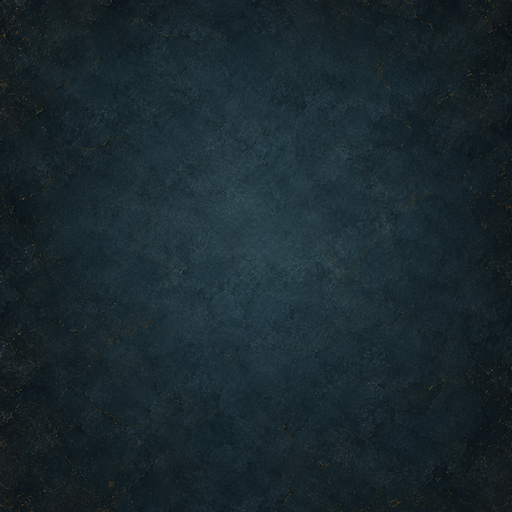
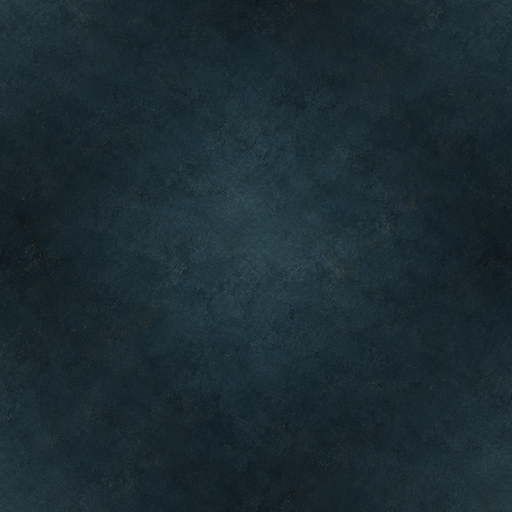
minor update to bg

diff --git a/src/ui/settings.ts b/src/ui/settings.ts
@@ -101,7 +101,7 @@ export function modalMarkup(settings: Settings, positioning = false): string {
               ? "Move the preview where you want, then press Alt+1."
               : settings.overlayPosition ? "Custom position saved." : "Using the default position."}</p>
             ${rangeRow("Cue scale", "settings-cue-scale", 55, 100, 5, settings.cueScale, "%")}
-            ${selectRow("Shown Abilities", "settings-upcoming-count", ["1", "2", "3", "4"], String(settings.upcomingAbilities))}
+            ${selectRow("Shown Abilities", "settings-upcoming-count", ["1", "2", "3", "4", "5", "6", "7", "8", "9", "10", "11", "12", "13", "14"], String(settings.upcomingAbilities))}
             ${rangeRow("Border thickness", "settings-border-thickness", 0, 3, 1, settings.cueBorderThickness, "px")}
             ${colorRow("Border color", "settings-border-color", settings.cueBorderColor)}
             ${toggleRow("50% opacity", "settings-overlay-opacity", settings.overlayOpacity === 50)}

diff --git a/src/styles.css b/src/styles.css
@@ -347,8 +347,8 @@ button:disabled {
   border-color: var(--gold2);
   border-left: 4px solid var(--gold2);
     background:
-        linear-gradient(rgba(5, 15, 20, 0.00), rgba(14, 44, 59, 0.25)),
-        url("./assets/bg.png") center / cover no-repeat;
+        linear-gradient(rgba(5, 15, 20, 0.07), rgba(5, 15, 20, 0.25)),
+        url("./assets/bg.png") repeat;
   box-shadow: 0 0 4px 3px rgba(0, 0, 0, .9);
 }
 

diff --git a/src/settings.css b/src/settings.css
@@ -20,8 +20,8 @@
   border: 2px solid var(--gold3);
   border-radius: 7px;
     background:
-        linear-gradient(rgba(5, 15, 20, 0.1), rgba(0, 102, 128, 0.50)),
-        url("./assets/bg.png") center / cover no-repeat;
+        linear-gradient(rgba(5, 15, 20, 0.50), rgba(0, 102, 128, 0.50)),
+        url("./assets/bg.png") repeat;
 }
 
 .settings-modal-header {
